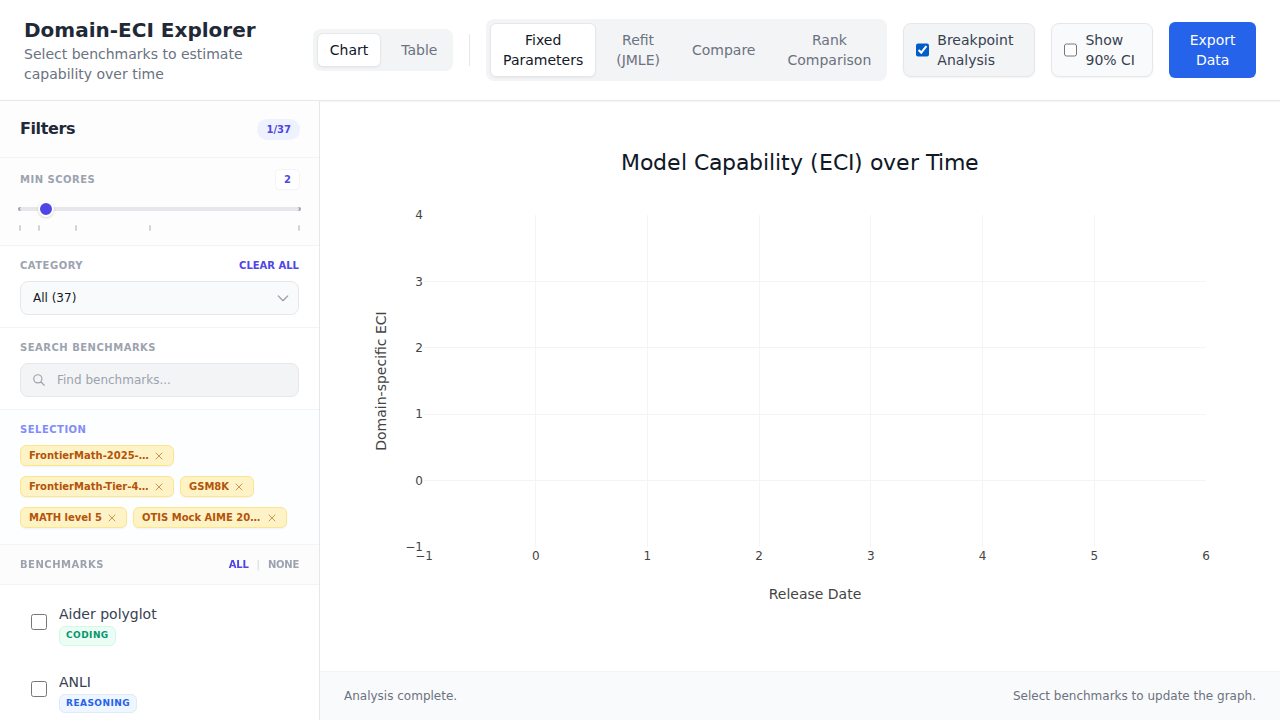
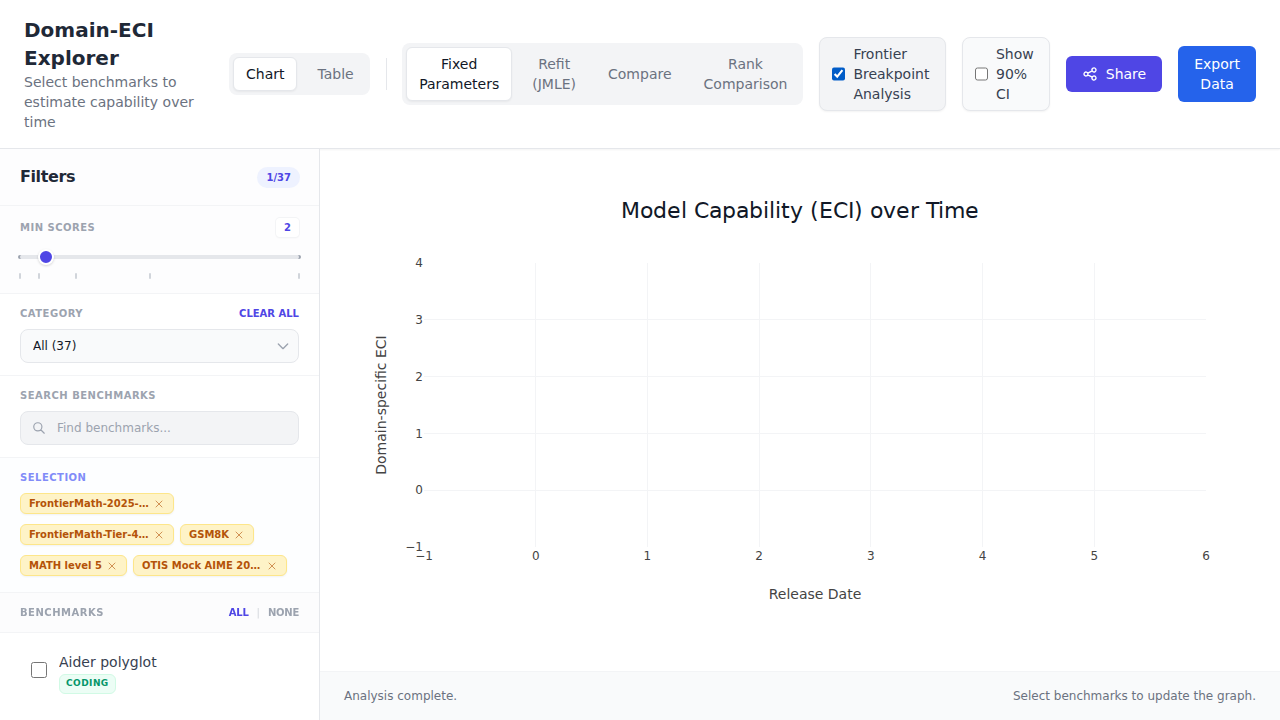
Clarify Frontier Breakpoint Analysis in UI

diff --git a/domain_eci.html b/domain_eci.html
@@ -142,7 +142,7 @@
                 class="flex items-center gap-2 cursor-pointer select-none bg-gray-50 px-3 py-1.5 rounded-lg border border-gray-200 shadow-sm hover:bg-gray-100 transition-colors">
                 <input type="checkbox" id="show-breakpoint-toggle"
                     class="w-4 h-4 text-indigo-600 rounded focus:ring-indigo-500 border-gray-300">
-                <span class="text-sm font-medium text-gray-700">Breakpoint Analysis</span>
+                <span class="text-sm font-medium text-gray-700">Frontier Breakpoint Analysis</span>
             </label>
             <label
                 class="flex items-center gap-2 cursor-pointer select-none bg-gray-50 px-3 py-1.5 rounded-lg border border-gray-200 shadow-sm hover:bg-gray-100 transition-colors">
@@ -198,7 +198,7 @@
                       </div>
 
                       <div class="flex items-center justify-between">
-                          <span class="text-sm font-medium text-gray-700">Breakpoint Analysis</span>
+                          <span class="text-sm font-medium text-gray-700">Frontier Breakpoint Analysis</span>
                           <input type="checkbox" id="mobile-show-breakpoint-toggle" class="w-5 h-5 text-indigo-600 rounded focus:ring-indigo-500 border-gray-300">
                      </div>
 
@@ -323,7 +323,7 @@
                     <div id="chart-container" class="w-full h-full"></div>
                 </div>
                 <div id="breakpoint-stats" class="w-full bg-white border-t border-gray-200 p-4 text-xs hidden z-10 shadow-[0_-4px_12px_rgba(0,0,0,0.05)]">
-                    <h3 id="stats-title" class="font-bold text-gray-800 mb-2 border-b pb-1 inline-block mr-4">Breakpoint Analysis</h3>
+                    <h3 id="stats-title" class="font-bold text-gray-800 mb-2 border-b pb-1 inline-block mr-4">Frontier Breakpoint Analysis</h3>
                     <div id="breakpoint-content" class="text-gray-600 inline-block"></div>
                 </div>
             </div>
@@ -1699,7 +1699,7 @@
                     if (state.showBreakpoint && rawPoints.length > 5) {
                         bpStatsDiv.classList.remove('hidden');
                         const titleEl = document.getElementById('stats-title');
-                        if (titleEl) titleEl.innerText = "Breakpoint Analysis";
+                        if (titleEl) titleEl.innerText = "Frontier Breakpoint Analysis";
                         status.innerText = "Running statistical analysis...";
 
                         await new Promise(r => setTimeout(r, 10));

diff --git a/verification/verify_domain_eci.py b/verification/verify_domain_eci.py
@@ -9,7 +9,7 @@ def verify(page):
     page.goto(f"file://{cwd}/domain_eci.html")
     page.wait_for_timeout(1000)
 
-    page.get_by_label("Breakpoint Analysis").check()
+    page.get_by_label("Frontier Breakpoint Analysis").check()
     page.wait_for_timeout(1000)
 
     # Inject data centered around theta=100 (diff=100)
